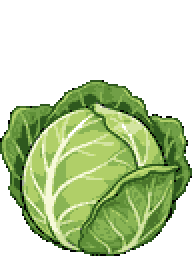
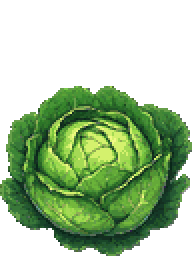
The user's new cabbage, minimally processed: fitted on its footprint, half resolution, own colours (KEEP), outline

diff --git a/tools/art/garden.py b/tools/art/garden.py
@@ -448,6 +448,10 @@ def sunflower():
 
 
 def cabbage():
+    if os.path.exists(os.path.join(REFERENCE, "cabbage_top.png")):
+        # The user's own finished cabbage, on its 3x3 footprint + one tile; just fitted.
+        out(painting("cabbage_top", 3 * T, 4 * T, colours=64, greens=False), "Obstacles/cabbage.png")
+        return
     if os.path.exists(os.path.join(REFERENCE, "cabbage.png")):
         out(from_reference("cabbage", 3 * T, 4 * T), "Obstacles/cabbage.png")
         return

diff --git a/tools/art/restyle.py b/tools/art/restyle.py
@@ -68,7 +68,7 @@ VIVID = {"cheese.png", "melted_cheese.png", "cheese_melter.png", "flowers.png", 
 # (none at the moment).
 SOFT = set()
 # Pictures kept as they are, only outlined: the user's own finished sprites (the palette has no sunflower yellow).
-KEEP = {"sunflower.png", "carrot.png"}
+KEEP = {"sunflower.png", "carrot.png", "cabbage.png"}
 
 
 def muted(c, vivid=False):

diff --git a/CLAUDE.md b/CLAUDE.md
@@ -132,7 +132,7 @@ Kompakt fabrik, max 3 nivåer i produktionskedjan, matcher 15–25 min.
 - Grafik: `tools/art/restyle.py` gör om alla sprites från `tools/art/source/` (palett + svarta konturer)
   och genererar golvet (stora brädor, 16x8 rutor). Nya sprites läggs i source och skriptet körs
   (`restyle.py <filer>` = bara de). Byggnader och enheter ritas av kod: `tools/art/kit.py` (plastformer, mus på
-  två ben, ark), `tools/art/buildings/*.py`, `tools/art/units/*.py`, `tools/art/logistics/*.py`, `tools/art/garden.py` (gräs, klöver, grus, häck, växter; en bild i `tools/art/reference/<namn>.png`, t.ex. användarens pumpa och kål, används i stället: bakgrund och skugga klipps bort, halv upplösning med hårda pixlar, 16 platta färger (octree, behåller små ytors färg), restylas; `painting()` = användarens färdiga sprite med genomskinlig bakgrund (pumpan uppifrån, `pumpkin_top.png`): passas på fotavtrycket, halv upplösning, 32 platta färger, gröna delar → palettens gröna, svarta linjer kvar; `KEEP` i restyle = egna färger, bara kontur (solrosen, moroten: paletten saknar deras färger); `painting(shadow=True)` klipper bort en målad grå skugga + lösa prickar; `SOFT` i restyle = lätt dämpad; `HAND_EDITED` i `kit.py` = sprites användaren gjort klart för hand, skripten skriver aldrig över dem); granska med `tools/art/sheet.py`. Under
+  två ben, ark), `tools/art/buildings/*.py`, `tools/art/units/*.py`, `tools/art/logistics/*.py`, `tools/art/garden.py` (gräs, klöver, grus, häck, växter; en bild i `tools/art/reference/<namn>.png`, t.ex. användarens pumpa och kål, används i stället: bakgrund och skugga klipps bort, halv upplösning med hårda pixlar, 16 platta färger (octree, behåller små ytors färg), restylas; `painting()` = användarens färdiga sprite med genomskinlig bakgrund (pumpan uppifrån, `pumpkin_top.png`): passas på fotavtrycket, halv upplösning, 32 platta färger, gröna delar → palettens gröna, svarta linjer kvar; `KEEP` i restyle = egna färger, bara kontur (solrosen, moroten, kålen: användarens färdiga bilder, paletten saknar deras färger); `painting(shadow=True)` klipper bort en målad grå skugga + lösa prickar; `SOFT` i restyle = lätt dämpad; `HAND_EDITED` i `kit.py` = sprites användaren gjort klart för hand, skripten skriver aldrig över dem); granska med `tools/art/sheet.py`. Under
   luminans 0,2 blir kontursvart, 2 px-linjer blir helt kontur, ljusa pasteller blir grå (välj mättat); paletten har två rosa för mössens öron, tassar och svansar.
 
 ## Kodstruktur
